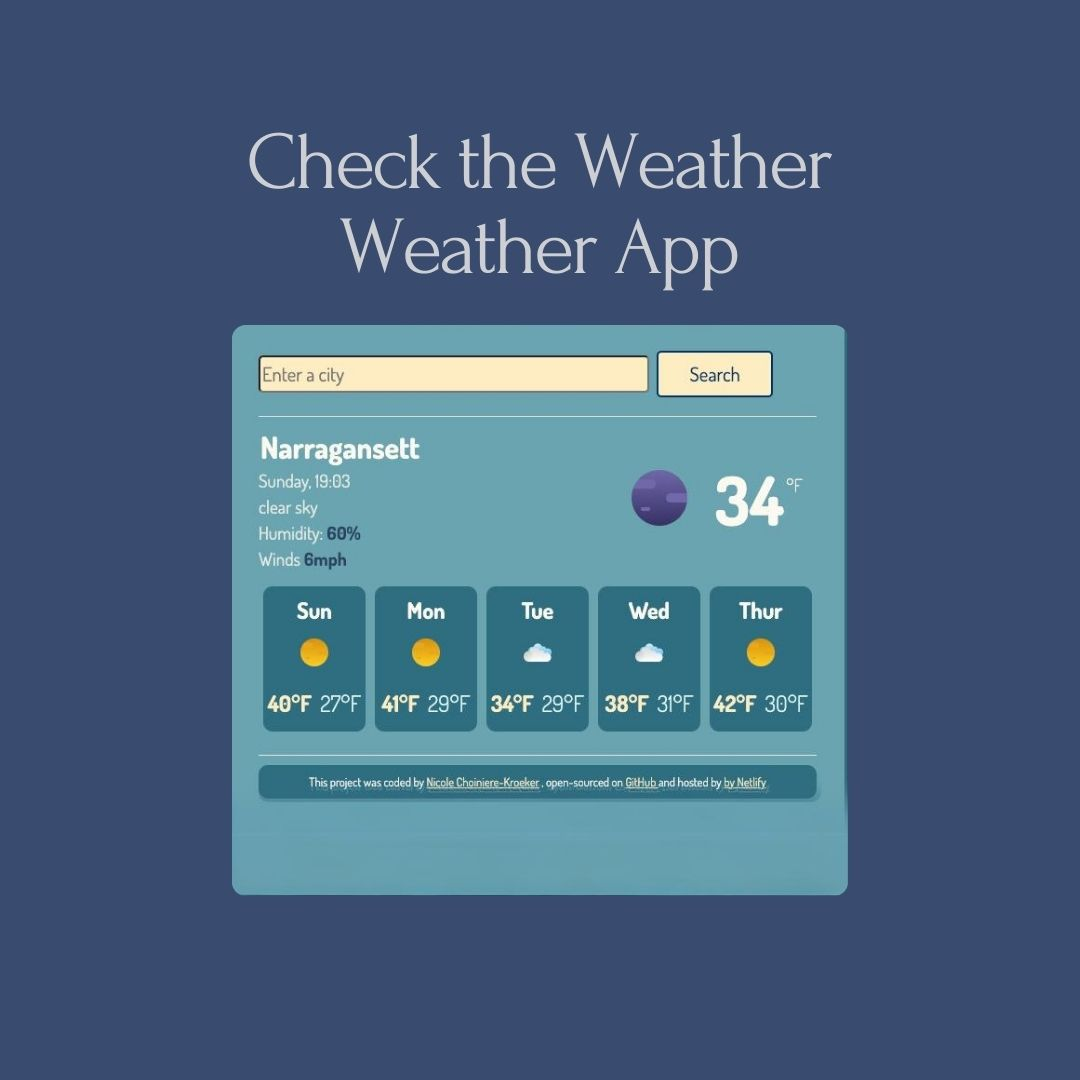
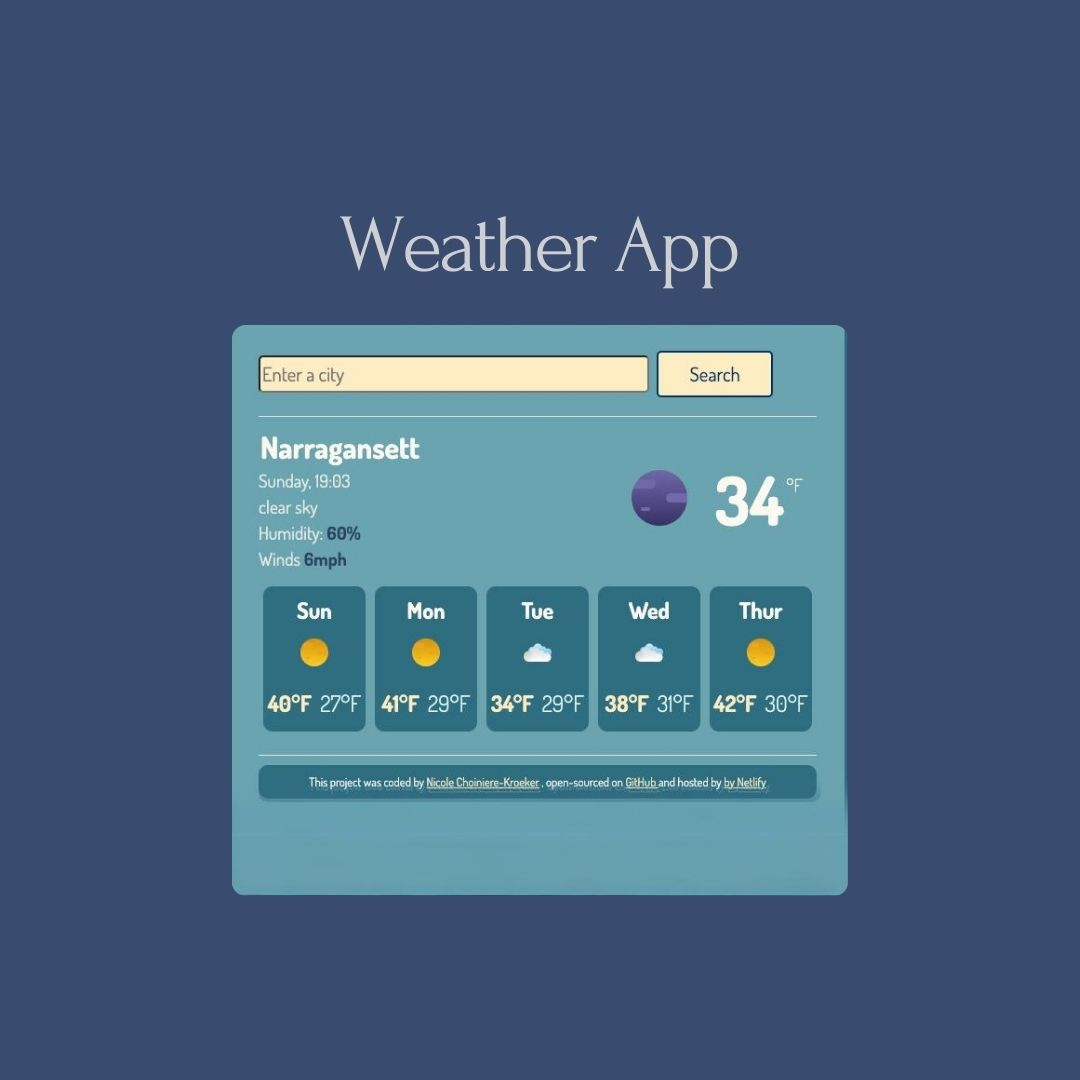
changed the images to have only title of app.

diff --git a/web.html b/web.html
@@ -123,7 +123,7 @@
             title="link to Book App"
           >
             <img
-              src="images/book-app-dk-forum.jpg"
+              src="images/book-app-dk-bkgd.jpg"
               alt="book app image"
               class="rounded-circle img-fluid app-image"
           /></a>
